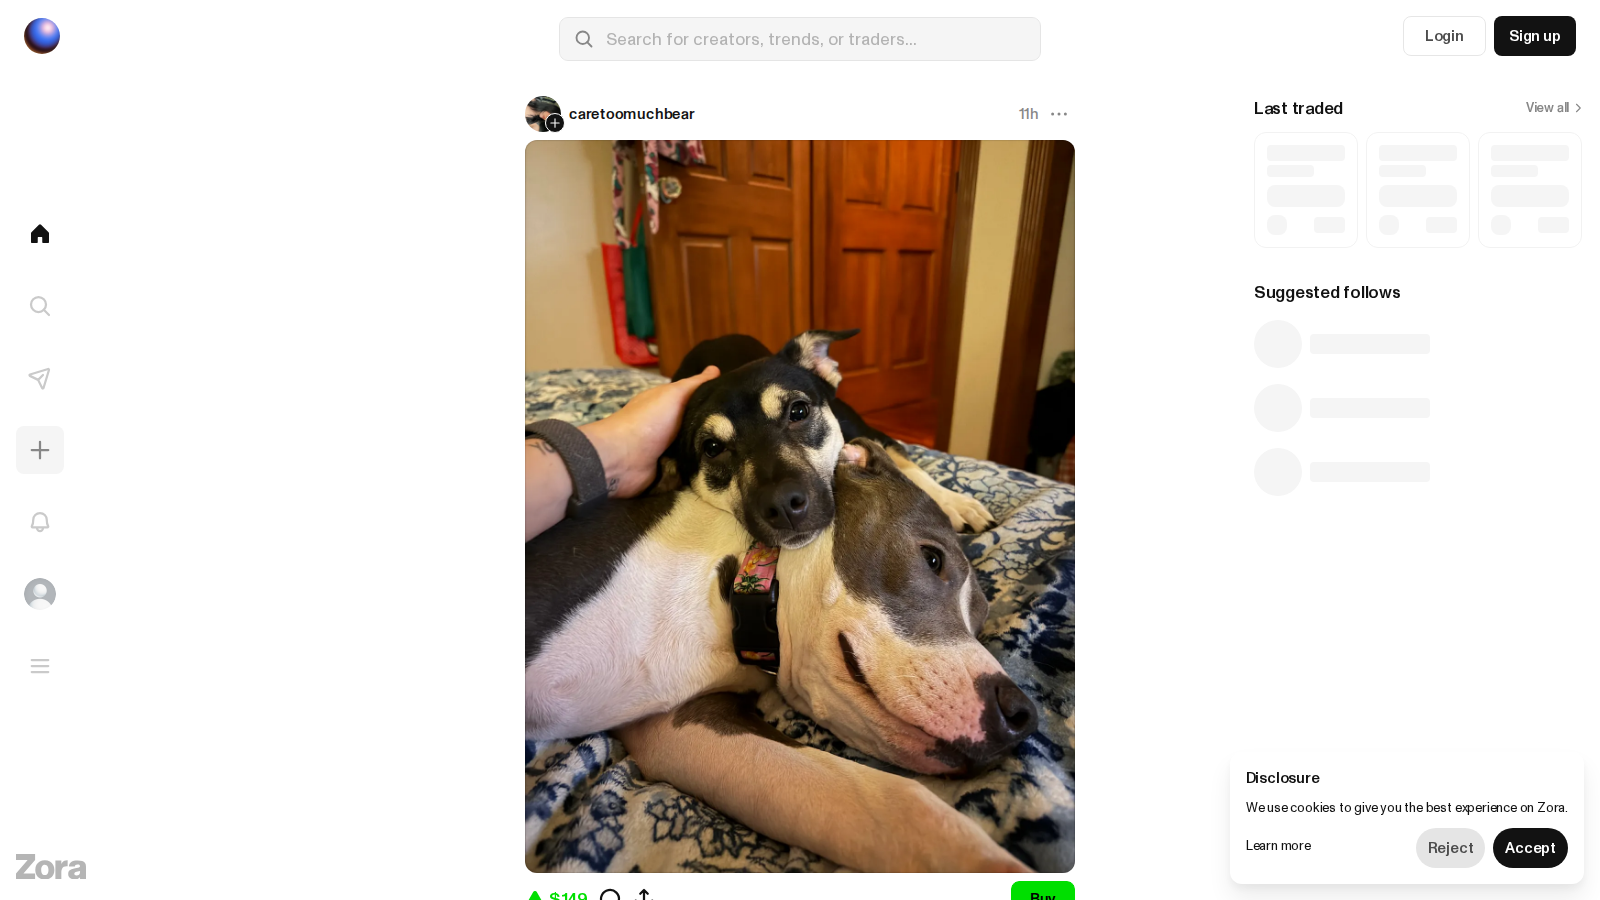
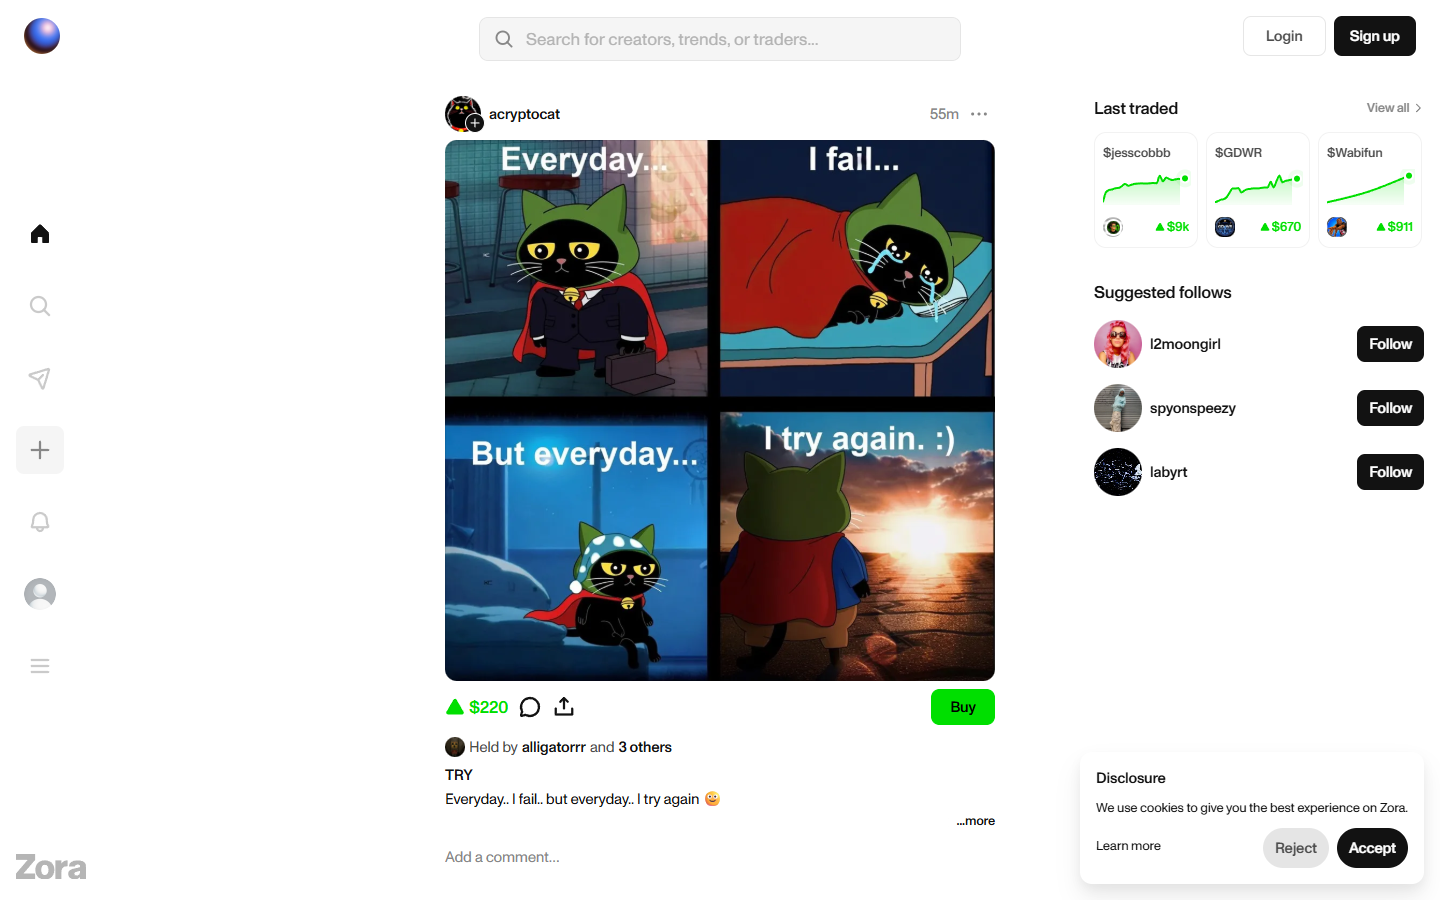
nftenex: hands-on captures for article 04 (creator royalties)
- Add verified table: OpenSea, Magic Eden, Zora, Manifold, Rarible public surfaces
- Add magiceden-marketplace, zora-home, zora-explore, manifold-home2, rarible-sell
- Update review type, methodology, limitations, trust, what-we-checked

diff --git a/nftenex/articles/04-best-nft-marketplaces-for-creator-royalties-2026.md b/nftenex/articles/04-best-nft-marketplaces-for-creator-royalties-2026.md
@@ -23,21 +23,21 @@ Creator royalties are still one of the most misunderstood parts of NFT infrastru
 That means the best NFT marketplace for creator royalties is not always the marketplace with the loudest creator messaging. It is the one whose fee model, policy logic, and audience fit your release strategy. This article also needs to work as a cluster bridge into NFT creator-royalty coverage, [NFT marketplaces for artists](/creator-economy/artists/best-nft-marketplaces-for-artists-2026), and the broader [best NFT marketplaces](/nft-markets/marketplaces/best-nft-marketplaces-2026) conversation.
 
 > Reviewed by NFTEnex Editorial Team
-> Last reviewed: 2026-07-13
-> Review type: No-budget editorial comparison
+> Last reviewed: 2026-07-14
+> Review type: Public-surface editorial review with live browser captures
 > Editorial policy: [NFTEnex Editorial Policy](/info/editorial-policy)
 
 > Why you can trust this guide
 >
-> This guide is based on live public product surfaces and official references reviewed on 2026-07-13. We directly checked the public positioning, visible workflow framing, and documentation shown in this article. We do not present unverified logged-in behavior, live checkout results, or completed onchain actions as first-hand use unless they were actually completed and documented.
+> This guide is based on live public product surfaces and official references reviewed on 2026-07-13. We directly loaded and captured live public surfaces for OpenSea, Magic Eden, Zora, Manifold, and Rarible on 2026-07-14. We reviewed fee documentation pages for OpenSea and Magic Eden, browsed marketplace and collection routes, and confirmed creator-tool posture on public surfaces. We do not present unverified logged-in behavior or completed onchain actions as first-hand use.
 >
 > Methodology
 >
-> We compared each option using live public product surfaces, official documentation, and visible workflow cues captured at review time. In this version, the ranking prioritizes clarity, workflow posture, and fit for different user types over private dashboard claims we could not verify directly.
+> We compared each option using live public product surfaces, official documentation, and visible workflow cues captured at review time. On 2026-07-14 we loaded and captured: OpenSea rankings and fee docs, Magic Eden homepage and Solana marketplace, Zora homepage and Explore, Manifold homepage, Rarible homepage and sell entry. The ranking combines these direct observations with public royalty policy documentation and current market positioning.
 >
 > Limitations
 >
-> This is a no-budget editorial review, not a fully funded end-to-end product test. Where a conclusion would require a live transaction, paid plan, logged-in dashboard, or wallet-funded workflow, we treat that as a limitation and avoid overstating direct experience.
+> This review covers public product surfaces and fee documentation for all five platforms, with direct browser captures on 2026-07-14. Conclusions about live royalty enforcement, payout behavior, and authenticated creator-dashboard workflows are drawn from public documentation and positioning only. No collections were deployed and no wallets were connected.
 
 ## The best NFT marketplaces for creator royalties in 2026 are Magic Eden, OpenSea, Zora, Manifold-powered storefronts, and Rarible
 
@@ -55,7 +55,7 @@ Quick picks:
 
 ## What we checked ourselves before ranking these marketplaces
 
-For this article, we reviewed the live fee and help documentation that [OpenSea](https://support.opensea.io/en/articles/8867091-what-fees-do-i-pay-on-opensea) and [Magic Eden](https://help.magiceden.io/en/articles/5858632-what-fees-will-i-pay-to-list-or-sell-nfts-on-magic-eden) publish publicly, and we rechecked Magic Eden's [service-change notice](https://help.magiceden.io/en/articles/13885504-magic-eden-marketplace-updates-service-changes) on 2026-07-13 because royalty discussions become vague very quickly when they are built only from old Twitter arguments and secondhand summaries.
+For this article we loaded and captured live public surfaces for all five platforms on 2026-07-14: OpenSea rankings and fee documentation, Magic Eden homepage and Solana marketplace route, Zora homepage and Explore page, Manifold homepage, and Rarible sell entry point. We also reviewed the public fee documentation that OpenSea and Magic Eden publish. Platforms reviewed: [OpenSea](https://opensea.io/), [Magic Eden](https://magiceden.io/), [Zora](https://zora.co/), [Manifold](https://manifold.xyz/), [Rarible](https://rarible.com/).
 
 That direct review does not answer every question a creator might have. It does not replace a live collection test across multiple chains or a full resale-path audit. But it does give us a much cleaner basis for judgment, because we can compare the way the major marketplaces currently explain fees, creator earnings, and selling conditions in their own language.
 
@@ -76,6 +76,51 @@ Caption: `Magic Eden fee documentation captured during our July 2026 review of c
 ![Magic Eden Help Center page explaining listing and selling fees for NFTs](../media/magiceden-fees.png)
 
 *Magic Eden fee documentation captured during our July 2026 review of creator-royalty marketplaces.*
+
+## What this review verified and what it did not
+
+We loaded and captured live public surfaces for all five platforms on 2026-07-14, including marketplace landing pages, collection-browsing routes, and creator/fee documentation pages. No wallets were connected and no collections were deployed.
+
+| Claim | Status |
+| --- | --- |
+| OpenSea homepage and fee documentation loaded directly | Verified |
+| OpenSea rankings page browsed directly | Verified |
+| Magic Eden homepage and Solana marketplace loaded directly | Verified |
+| Magic Eden fee help-center page captured directly | Verified |
+| Zora homepage and Explore page browsed directly | Verified |
+| Manifold homepage loaded and creator-tool posture confirmed | Verified |
+| Rarible homepage and sell entry point browsed directly | Verified |
+| Authenticated creator dashboard accessed (any platform) | Not verified |
+| Live royalty payout received from secondary sale | Not verified |
+| Collection deployed and sold with royalties enforced | Not verified |
+
+**Magic Eden Solana marketplace**
+
+![Magic Eden Solana marketplace page showing active NFT collections and trading environment](../media/magiceden-marketplace.png)
+
+*Magic Eden Solana marketplace, July 2026 -- active collections and trading environment confirmed on the Solana-native route.*
+
+**Zora creator surfaces**
+
+![Zora homepage showing creator-native NFT publishing and drop platform](../media/zora-home.png)
+
+*Zora homepage, July 2026 -- creator-native distribution and publishing platform confirmed on public surface.*
+
+![Zora Explore page showing active NFT drops and open editions](../media/zora-explore.png)
+
+*Zora Explore page, July 2026 -- live drops, open editions, and creator publishing activity confirmed.*
+
+**Manifold creator infrastructure**
+
+![Manifold homepage showing creator contract tooling and direct storefront model](../media/manifold-home2.png)
+
+*Manifold homepage, July 2026 -- creator contract ownership and direct storefront posture confirmed on public surface.*
+
+**Rarible sell entry point**
+
+![Rarible sell page showing the creator listing and marketplace entry workflow](../media/rarible-sell.png)
+
+*Rarible sell page, July 2026 -- marketplace listing entry point for creators confirmed.*
 
 What stood out immediately was that a creator-royalty comparison should never start with ideology. It should start with the practical surfaces creators actually depend on: fee pages, help documentation, collection setup rules, and where the marketplace puts the burden of clarity. If a platform cannot explain its economics cleanly, it is already creating friction for the people it claims to help.
 